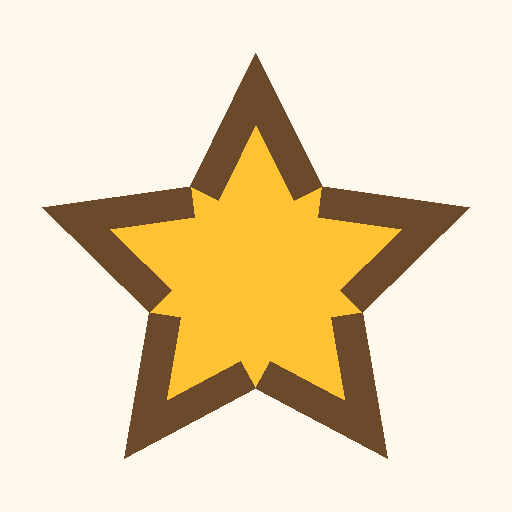
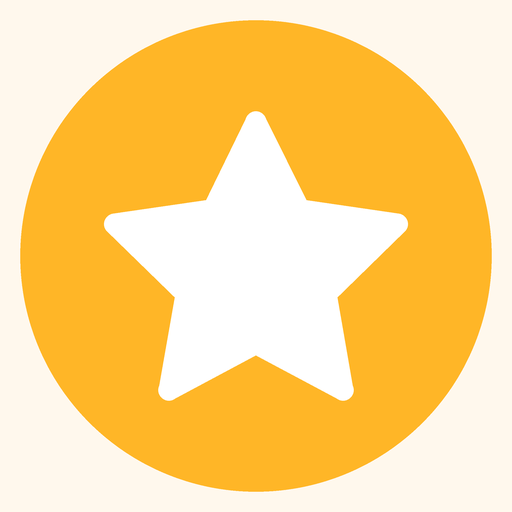
更新应用图标并发布 0.1.0

diff --git a/index.html b/index.html
@@ -10,13 +10,13 @@
 <meta name="apple-mobile-web-app-capable" content="yes">
 <meta name="apple-mobile-web-app-status-bar-style" content="default">
 <meta name="apple-mobile-web-app-title" content="星星银行">
-<meta name="app-version" content="0.0.99">
+<meta name="app-version" content="0.1.0">
 <link rel="apple-touch-icon" href="/icons/icon-192.png">
 <link rel="preconnect" href="https://fonts.googleapis.com">
 <link rel="preconnect" href="https://fonts.gstatic.com" crossorigin>
 <link href="https://fonts.googleapis.com/css2?family=Fredoka:wght@500;600;700&family=Noto+Sans+SC:wght@400..900&display=swap" rel="stylesheet" media="print" onload="this.media='all'">
 <noscript><link href="https://fonts.googleapis.com/css2?family=Fredoka:wght@500;600;700&family=Noto+Sans+SC:wght@400..900&display=swap" rel="stylesheet"></noscript>
-<link rel="stylesheet" href="styles.css?v=0.0.99">
+<link rel="stylesheet" href="styles.css?v=0.1.0">
 <style id="critical-main-shell">
 .account-bar{display:flex;align-items:center;justify-content:space-between;gap:12px;margin-bottom:14px;padding:10px 14px;background:#fff;border-radius:20px;box-shadow:0 4px 14px rgba(200,140,60,.1);border:1px solid rgba(255,226,191,.6)}.account-left{display:flex;align-items:center;gap:10px;flex:1;min-width:0}.account-bar .avatar{width:40px;height:40px;font-size:1.4rem}.account-bar .welcome{min-width:0;flex:1;display:flex;align-items:baseline;gap:8px}.account-bar .greet-name{white-space:nowrap;overflow:hidden;text-overflow:ellipsis}.account-bar .sub{white-space:nowrap}.star-balance{display:flex;align-items:center;gap:6px;flex-shrink:0;background:transparent;padding:0}.star-balance .star-icon{width:28px;height:28px;border-radius:50%;background:#ffb627;display:flex;align-items:center;justify-content:center;box-shadow:0 4px 14px rgba(200,140,60,.1)}.star-balance-ic{width:1rem;height:1rem;filter:brightness(0) invert(1)}.star-balance .score-num{font-family:"Fredoka",sans-serif;font-size:1.35rem;font-weight:700;line-height:1;color:#6b4a2b;min-width:1.1em;text-align:center}.main-hero{margin-bottom:14px;padding:12px 14px;background:linear-gradient(135deg,#fff9f0 0%,#fff 100%);border-radius:20px;border:1px solid rgba(255,226,191,.55);box-shadow:0 4px 14px rgba(200,140,60,.1)}.main-hero-line{display:flex;align-items:baseline;gap:6px}.main-hero-icon{font-size:1.05rem;line-height:1;flex-shrink:0}.main-hero-main{font-size:1rem;font-weight:800;color:#6b4a2b;min-width:0;white-space:nowrap;overflow:hidden;text-overflow:ellipsis}.main-hero-sub{display:inline-block;margin-top:6px;padding:0;border:none;background:transparent;font:inherit;font-size:.76rem;font-weight:700;color:#b08a5e;max-width:100%;white-space:nowrap;overflow:hidden;text-overflow:ellipsis}
 </style>

diff --git a/sw.js b/sw.js
@@ -1,4 +1,4 @@
-const CACHE_VERSION = '0.0.99';
+const CACHE_VERSION = '0.1.0';
 const PRECACHE = 'stars-bank-precache-' + CACHE_VERSION;
 const RUNTIME = 'stars-bank-runtime-' + CACHE_VERSION;
 const FIREBASE_SDK_VERSION = '10.12.2';